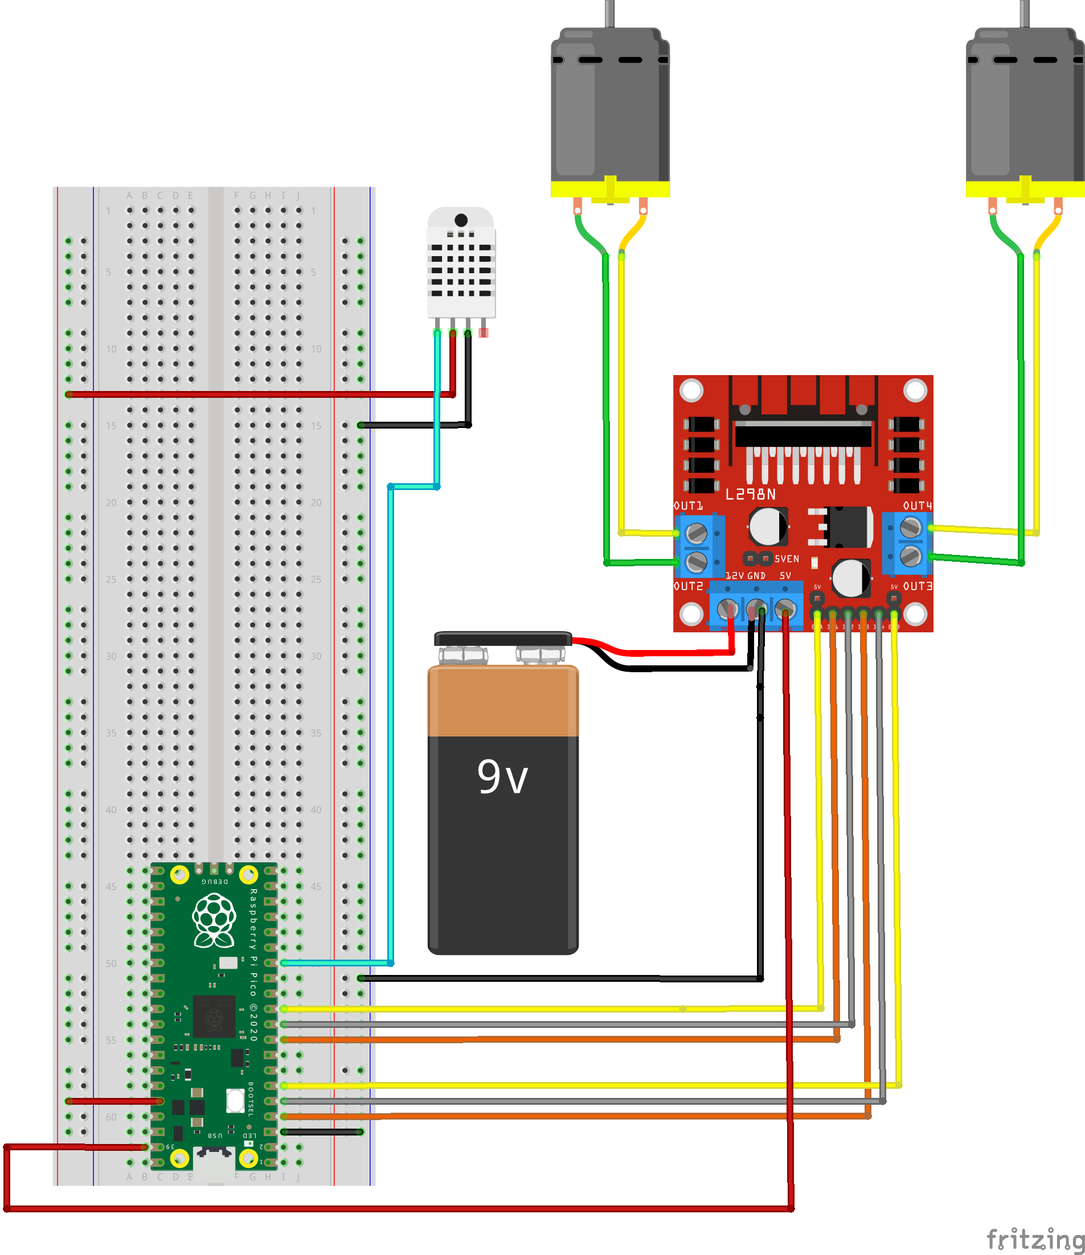
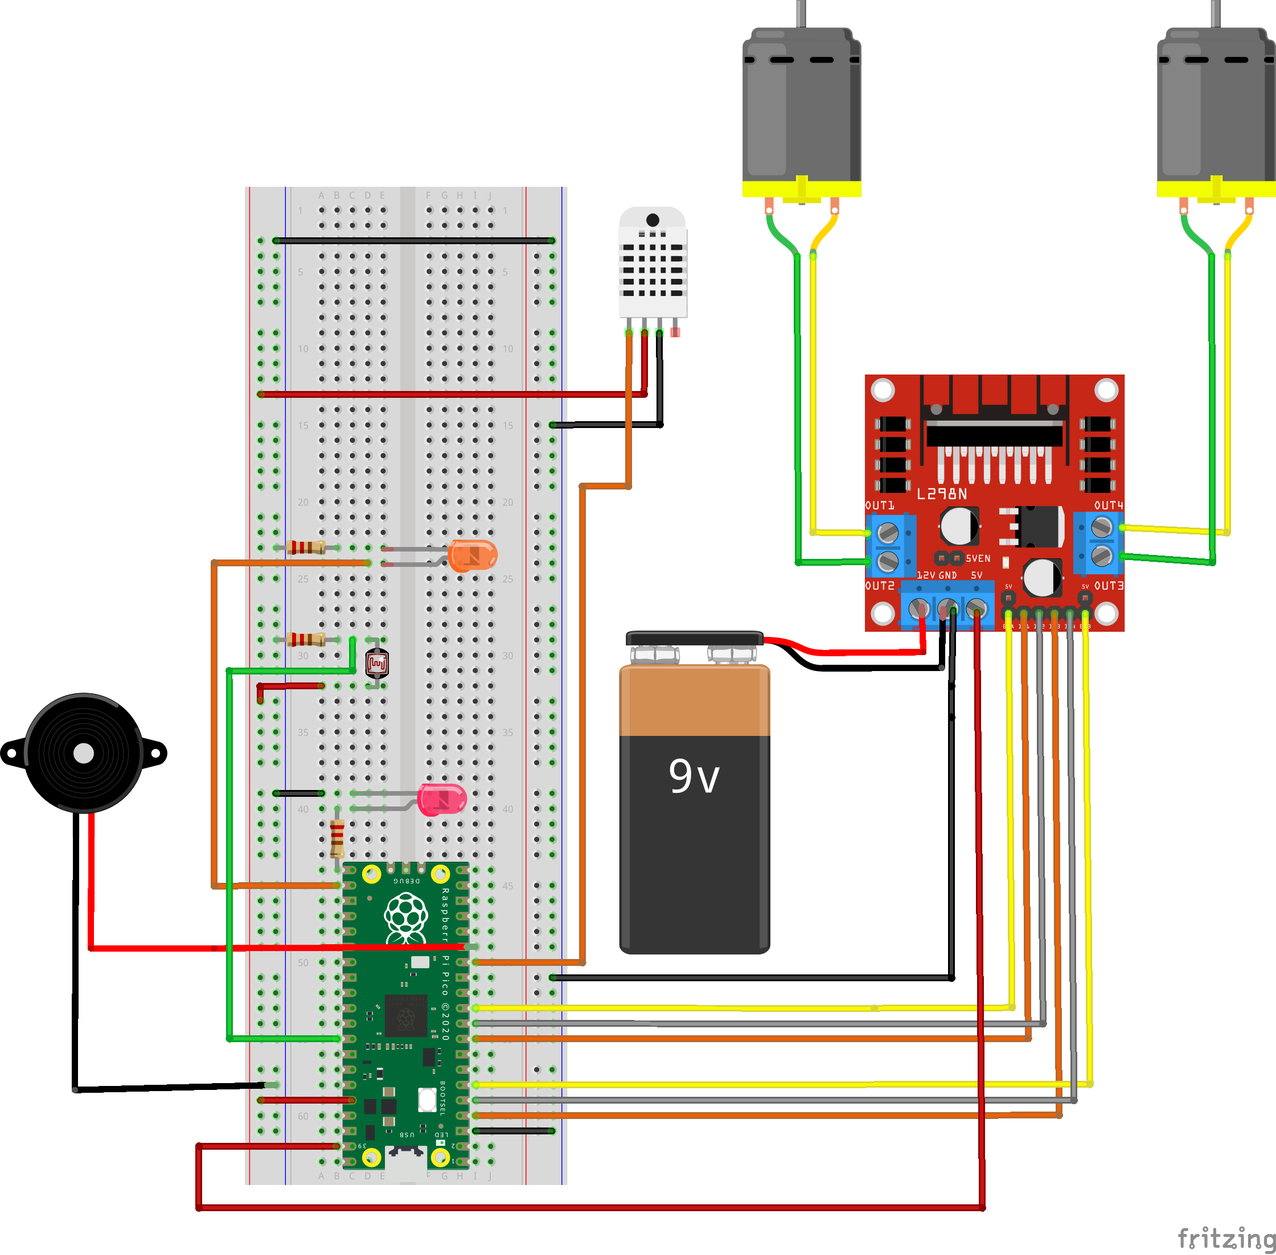
final version before presentation (#6)

diff --git a/README.md b/README.md
@@ -26,16 +26,21 @@ I went with the course recommendation to use a Raspberry Pi Pico W(H). It absolu
 | <img src="https://www.electrokit.com/upload/product/10160/10160840/10160840.jpg" alt="Image" width="300"/> | [Breadboard](https://www.electrokit.com/kopplingsdack-840-anslutningar) |For experimenting and testing. Also perfect if you dont want to solder.|69 SEK |
 | <img src="https://www.electrokit.com/upload/product/41000/41000885/41000885.jpg" alt="Image" width="300"/> | [9V-battery holder](https://www.electrokit.com/batterihallare-9v) |You get a 2-slot AA battery holder with the kit. But i prefered to used the 9V battery, because its not as easy to find high volt AA batteries.|10 SEK |
 | <img src="https://www.electrokit.com/cache/89/700x700-quick_ab_5b_0228_42338.png" alt="Image" width="300"/> | [9V-battery](https://www.electrokit.com/batteri-9v-6f22) | Enough to power both the MCU (pico) and the motors via the motor driver.|16 SEK |
+| <img src="https://www.electrokit.com/upload/product/40307/40307020/40300051.jpg" alt="Image" width="300"/> | [Led](https://www.electrokit.com/led-5mm-rod-diffus-1500mcd) | Need 2 or more|5 SEK |
+| <img src="https://www.electrokit.com/upload/product/40850/40850001/40850001.jpg" alt="Image" width="300"/> | [Photo resistor](https://www.electrokit.com/fotomotstand-cds-4-7-kohm) | Need 1 or more|8 SEK |
+| <img src="https://www.electrokit.com/upload/product/40810/40810410/40810410.png" alt="Image" width="300"/> | [10kohm resistor](https://www.electrokit.com/motstand-kolfilm-0.25w-10kohm-10k) | Need 1 or more|1 SEK |
+| <img src="https://www.electrokit.com/cache/45/700x700-product_40810_40810233_40810233.png" alt="Image" width="300"/> | [330ohm resistor](https://www.electrokit.com/motstand-kolfilm-0.25w-330ohm-330r) | Need 2 or more|1 SEK |
 | __Below__ | __is__ | __optional__ | - |
-| <img src="https://www.electrokit.com/upload/product/41000/41000465/41000465.jpg" alt="Image" width="300"/>| [Soldering kit](https://www.electrokit.com/lodset-starter-kit)| If you want to solder. | 219 SEK |
+| <img src="https://www.electrokit.com/upload/product/41000/41000465/41000465.jpg" alt="Image" width="300"/>| [Soldering kit](https://www.electrokit.com/lodset-starter-kit)| If you want to solder. (Get something better than this one though)| 219 SEK |
+| <img src="https://www.electrokit.com/cache/6f/700x700-product_41014_41014000_41014000.jpg" alt="Image" width="300"/>| [Wire](https://www.electrokit.com/kopplingstrad-0.28mm2-entradig-rod-/m)| If you want to solder. | 15 SEK |
 | <img src="https://www.electrokit.com/cache/0d/700x700-product_41014_41014098_41014098.jpg" alt="Image" width="300"/>| [m2.5 standoff screws](https://www.electrokit.com/distansskruv-m2.5-5mm), [m2.5 screws](https://www.electrokit.com/skruv-ph-m2.5x6) and [m2.5 nut](https://www.electrokit.com/mutter-m2.5)| For fastening your MCU and motordriver (and some sensors). For mcu and driver you will need 8 of each. | 1-5 SEK per piece |
 
 ## Setup
 ### Computer setup
-How is the device programmed. Which IDE are you using. Describe all steps from flashing the firmware, installing plugins in your favorite editor. How flashing is done on MicroPython. The aim is that a beginner should be able to understand.
+
 First we should to download and install [Python3](https://www.python.orgdownloads/), and to use Pymakr (explained below), we also need to install [NodeJS](https://nodejs.org/en/).
 
-I decided to use [VScode (download it here: Visual studio code)](https://code.visualstudio.com/) as my IDE (Integrated Devlopment Environment). I have used for for about 3 years and it's often a good choice, in my opinion. Follow the prompts (optional but suggested, add VScode to Path if asked) 
+I decided to use [VScode (Visual studio code)](https://code.visualstudio.com/) as my IDE (Integrated Devlopment Environment). I have used for for about 3 years and it's often a good choice, in my opinion. Follow the prompts (optional but suggested, add VScode to Path if asked) 
 To be able to use VScode with our MCU (Pico), we need to install some extensions. There are a few available extensions for working with Pico and micropython, but let's go with __Pymakr__. After installing VScode go to the extension tab and seach for Pymakr (see picture): 
 ![Pymaker install](./.images/pymakr.png "Title")
 
@@ -55,25 +60,27 @@ Before we can start writing code and flash it to our MCU, we need to [download](
 <img src="https://b1870411.smushcdn.com/1870411/wp-content/uploads/2021/04/pico-bootsel.jpg?lossy=2&strip=1&webp=1"  alt="Image" width="400"/>
 This causes the Pico to appear as a mass storage device (like any USB-storage device or other external hard drive) and can often be found under "This PC" on Windows. Simply drag and drop the downloaded firmware file (its probably a .uf2 file). Now the Pico is ready to handle python code. Simply unplugg and plugg your device again. Now is a good time to follow the previosly mentioned [Pymakr get started guide](https://github.com/sg-wireless/pymakr-vsc/blob/HEAD/GET_STARTED.md). As you can see in the guide there is an easy to use dev-mode coming with the extension, it takes care of uploading and restarting your micropython code whenever you make changes to the code. The dev-mode works fine, most of the time, but i can sometimes be a bit finicky and you have to help the program by pressing the "Sync project to device"-button below (see Pymakr guide).
 
-How is all the electronics connected? Describe all the wiring, good if you can show a circuit diagram. Be specific on how to connect everything, and what to think of in terms of resistors, current and voltage. Is this only for a development setup or could it be used in production?
-Circuit diagram (can be hand drawn)
-*Electrical calculations
-Platform
-Describe your choice of platform. If you have tried different platforms it can be good to provide a comparison.
-### Wiring and components
+### Putting it together
 In short, the 9V battery powers the L298N motor driver card. The driver card is equiped with a 5V volt regulator (marked as 5VEN on the image below) and as long as the jumper plug (small connector that connects the 2 pins) is connected, the L298N outputs 5V (To the right of the 12v and GND) which we can use to power our Pico board via the VSYS pin(39), which works fine because the VSYS expects between 1.8 to 5.5V. The <span style="background-color:red;">RED</span>  wires are generally representing the power source connections. It's important to note that the <span style="background-color:black; color:white;"> BLACK</span> wires is all connected to a common ground (the squared pins on the pico are all GND/Ground). The <span style="background-color:yellow;">YELLOW</span> wires connected between the Pico (green board) and the L298N (red board) are both connected to pins named ENA (left one is for left motor) and ENB (for right motor) and these pin controll the speed of their respective motor, if these pins are not used, the motors will always go at full speed These pins are controlled with PWM (converts a digital signal into an analog signal by varying the duty cycle of a square wave pulse).
 The <span style="background-color:orange;">ORANGE</span> and <span style="background-color:grey;">GREY</span> wires are connected to pins named IN1/IN2 (left motor) and IN3/IN4 (right motor). These pins simply control the direction of the motors by getting input from the Pico.
 
 The <span style="background-color:yellow;">YELLOW</span> and <span style="background-color:green;">GREEN</span> wires between the 6V DC motors are the power supply to the motor. These are controlled via the previously name INx/INy pins. Depending on which wires gets powered the motors spin in different directions.
 
-The <span style="background-color:cyan;">CYAN</span> wire is for a humidity sensor that is added temporarily because I needed some data to display. My goal is to replace this with a sensor for measuring the speed of the car (using the encoder discs that come with the wheels).
+The <span style="background-color:cyan;">CYAN</span> wire is for a temperature and humidity sensor added to track the temperature of the car chassis. My goal was to build this project inside a junction box and to use the temperature sensor to notify the driver if the box gets hot.
+
+The led lights on the diagram is optional and doesn't really affect the vehicle. The Orange one turns on if it's dark, you can see it as a cars headlights. The red one is like a glowing when you reverse the car.
+The black circle to the right is piezo-speaker (buzzer) it's supposed to represent the cars horn. These utilities
 ![Circuit diagram](.images/rccar_bb.png)
 
-Is your platform based on a local installation or a cloud? Do you plan to use a paid subscription or a free? Describe the different alternatives on going forward if you want to scale your idea.
+## Electrical Safety Tips
+There are some few key notes we need to be aware of as to not damage our hardware. First, follow the diagram, the leds need a 330ohm resistor, else they might get hot and fail. The most important note, is to pay attention to where you connect the battery. If you provide the L298N (red card) with a 9V battery AND have the jumper (small black connector) connecting the two pins (marked with 5VEN) for the 5V regulator in place. The L298N will output 5V that you can use to supply power your Pico via VSYS, which (see diagram). Be very mindfull not to accidently provide your Pico with directly from the 9V battery, I made that misstake and it fried my Pico. The Pico have its own 3.3v regulator that allows the Pico to supply 3.3v to the rest of the board and its GPIO. However it needs to be provided with __1.8V to 5.5V__ for it to work.
+The motors are capable of handling up to 6V each so we will not be able 2 use their full potential with a 9V battery, but it is good enough. If you have a batterypack of 12V you can use that instead. Just be sure to not go over the 12V specified on the L298N for this project. 
+The design of the L298N cause some voltage drop that we can't do anything about. 
+
 
 ## Connectivity setup
 __Remember to use / or \ for paths, depending on your OS.__
-### Connect to Wifi 
+#### Connect to Wifi 
 1. Create server\src\keys.py
 1. Add the variables: 
     * WIFI_SSID = < REPLACE EVERYTHING AFTER '=' WITH YOUR "WIFI NAME" >
@@ -90,27 +97,39 @@ __Note that my IP is in the format of "XXX.XXX.X.XX" (your might differ a bit) f
     * CONNECT_TO_IP = <"Your Pico server IP">
     * CONNECT_TO_PORT = <"Prefered port (the preset one used is 3000)">
 
+### Platform for visualizing data
+
+I decided to use Adafruit for it's simplicity. I initially considered using Node-RED, but due to current time constraints and the need to prioritize setting up the car's functionality, I opted for Adafruit to better manage my time (an area I am actively working to improve). My project haven't been so heavily focused on data collection which contributed to the decision to go for a simpler service for thihs purpose, I did install a temperature sensor to monitor the enclosure/chassi where the pico and the other components are mounted to make sure it doesnt get to heated. 
+I also installed an optical encoder that could read encoder discs on the wheels in order to calculate the speed of the vehicle (see image below), wtih the purpose of sending the speed data to my Adafruit dashboard. I got it working and had the math figured out. However the sensor and the discs werent really as compatible as I had hoped. So their ability to give reliable speed data wasn't good, thus i decided to scrap that feature, the downside is that I dont have as much data to show on my dashboard.
 
 
-Describe platform in terms of functionality
-*Explain and elaborate what made you choose this platform
+![Encode disc](.images/encoder-disc.png)
 
-## Data visulization
-I decided to use Adafruit for it's simplicity. I wanted to use Node-red but I have very limited time at the moment so I went with Adafruit. My project haven't been so heavily focused on data collection, I did install a temperature sensor to actually have some real data to send to Adafruit. My goal, if I have time, is to install a sensor for measuring the speed of the car. If I can't, I will simply add some more general sensor to have some data to display.
+Another good aspect of Adafruit is that their API is super easy to use and with a simple fetch I can display the same data ive uploaded on my own webapp/client.
 
-The code
-Import core functions of your code here, and don't forget to explain what you have done! Do not put too much code here, focus on the core functionalities. Have you done a specific function that does a calculation, or are you using clever function for sending data on two networks? Or, are you checking if the value is reasonable etc. Explain what you have done, including the setup of the network, wireless, libraries and all that is needed to understand.
+If you want to display your readings on Adafruit you to need to create an Adafruit account and set up the feeds. Next step if you want your readings mean value to be displayed in the webapp (controller) you need to paste your Adafruit key in functions.js
 
-![Data vis Adafruit](.images/data-vis.png)
+Like:
+
+    async function fetchData() {
+    const url = `https://io.adafruit.com/api/v2/emklemkl/feeds/temperature/data?limit=10`;
+    const response = await fetch(url, {
+        headers: {
+            'X-AIO-Key': "xxx_xxxxxxxxxxxxxx"
+        }
+    });
 
 ## Code
-The main stars in my project is probably the motors. I decided to create a Motor class to easily control each individual motor. This makes it a  walk in the park to create the main controls for the the Client that is controlling the car.
+The main stars in my project is probably the motors. I decided to create a Motor class to easily control each individual motor. This makes it a  walk in the park to create the main controls for the the Client that is controlling the car. 
 
 ## Server/Backend
-The car is running it's own server with WebSocket protocol. As soon as it detects signals from the client it is ready to let the client control the car.
+The car is running it's own server with WebSocket protocol. As soon as it detects signals from the client it is ready to let the client control the car via the web app controller (phone/pc). It was a bit more challenging than expected to the get the connection between the client and backend without disturbances. I ended up writing some async code in order to not block any instructions coming from the client.
+
 ![Rc car](.images/car.jpg)
 
 ### motor.py
+This class hold all the functions needed to control the speed or direction of the motors. 
+
     class Motor():
         MAX_DUTY_CYCLE = 65535
         def __init__(self, pin_x : Pin, pin_y : Pin, pin_pwm : Pin) -> None:
@@ -132,26 +151,40 @@ The car is running it's own server with WebSocket protocol. As soon as it detect
         def ....
 
 ### main.py
-The main file contains a bit more code than necessary at the moment, but its main feature is the while loop that keeps the WebSocket server alive. Each loop checks if new instructions have been sent from the client, if a new instruction is detected the car will act upon it instantly.
+The main file contains a while loop. Each loop checks if new instructions have been sent from the client(phone/pc) to the server(Pico/MCU), if a new instruction is detected the car will act upon it next iteration. Because of the sleep-functions you can send up to 10 commands every second, and use of asynchronous programming allows you to provide other instructions without blocking the driving functionality. For example, you can spam the "honk" button without losing the ability to steer the car.
+
+The main loop is a function that is called from a try except block after the server object have been initialized.
+
+    async def main_loop():
+        ts = time.time()
+        while True:
+            if ts + NIGHT_LIGHT_CHECK_TIME < time.time():
+                night_light.led_control()
+                ts = time.time()
+            temp = temp_hum.measure_temp()
+            client.check_msg()
+            if temp:
+                send_temp(temp)  # Send a current temp to Adafruit IO if it's time.
+            server.process_all()
+            await asyncio.sleep(0.1)
 
     try:
         server = AppServer()
         server.start(3000)
-        temp_hum = TemperatureHumidity(Pin(10))
-        while True:
-            temp = temp_hum.measure_temp()
-            client.check_msg()# Action a message if one is received. Non-blocking.
-            if temp:
-                send_temp(temp)     # Send a random number to Adafruit IO if it's time.
-            server.process_all()
-            time.sleep(0.3)
+        temp_hum = SensorDHT11(Pin(10))
+        night_light = NightLight(ADC(27), Pin(17, Pin.OUT), 59000)
+        asyncio.run(main_loop())
     except KeyboardInterrupt:
         pass
+    server.stop()
 
 ## Client/Frontend
 
-The client runs a WebSocket protocol to have full duplex communication between the server and client. The client consists of functions.js and index.html which in combination is used to control the car. At the moment the controls for the car have a very basic setup.
-![Controller for ar](.images/car-controll.png)
+The client runs a WebSocket protocol to have full duplex communication between the server and client. The client consists of functions.js and index.html which in combination is used to control the car. I decided to create a radio button inspired controller, the main reason is that it was faster than creating a virtual joystick, the second reason is that it is more fun to drive it like this as it is more challenging. The controller also have a horn that you can sound with the "honk" button (on the cat its just a simple piezo buzzer that i found in the sensor pack). You can increase and decrease the speed of the car with the slider without blocking any functionality. Below you can see the car temperature values. My plan is you solder together all parts and put them inside a simple chassi (like a small junction box), and when all the parts are enclosed I want instand feedback of the temperature inside the chassi. The temperature data is fetched from the Adafruit API and then i display the mean value of the last X datapoints sent to my Adafruit feed.
+
+__To start the client__ open a terminal (Win + R, write "cmd" then press enter) navigate to the folder \client using "cd some\folder\iot-project\client. Then run the command: python3 -m http.server 9000. You can now find the client/webapp in your browser by entering localhost:9000 in the search bar. When you enter the app the connection to the Pico/server should happen automagically (make sure the pico is powered).
+
+![Controller for car](.images/rc-controller.gif)
 ### functions.js
 This JavaScript code simply connects to the server that is running on the Pico (on the car) as soon as any device visits the clients ip.
 
@@ -182,27 +215,47 @@ This JavaScript code simply connects to the server that is running on the Pico (
         ws.send(value)
     }
 
-# Explain your code! 
+### index.html
 
-# To be continued...
+    <body>
+    <div id="car-controller">
+        <div class="flex-row-even">
+            <div class="flex-column">
+                <label for="forward-left">Forw/Left</label>
+                <input type="radio" id="forward-left" class="radio" name="radio-sel" value="fL">
+            </div>
+            <div class="flex-column">
+                <label for="forward">Forward</label>
+                <input type="radio" id="forward" class="radio"  name="radio-sel" value="f">
+            </div>
+        ....
+## Transmitting data
 
-Transmitting the data / connectivity
-How is the data transmitted to the internet or local server? Describe the package format. All the different steps that are needed in getting the data to your end-point. Explain both the code and choice of wireless protocols.
+#### Wifi
+As mentioned earlier the program is Wifi driven. The Pico board mounted on the car runs a server that receives instructions from the client using WebSocket protocol. Using Wifi in this case has it's pros and cons. For the steering of the car my life would probably have been easier if I used IR sensors or Bluetooth as to not having to deal with ip-addresses back and forth, but i learned a lot so it feels like a good choice for that purpose. I also noticed I have some "Wifi dead zones" in my house when I was testing out the car, which negatively impacts the experience. 
 
-How often is the data sent?
-Which wireless protocols did you use (WiFi, LoRa, etc …)?
-Which transport protocols were used (MQTT, webhook, etc …)
-*Elaborate on the design choices regarding data transmission and wireless protocols. That is how your choices affect the device range and battery consumption.
-Presenting the data
-Describe the presentation part. How is the dashboard built? How long is the data preserved in the database?
+#### Transport protocols
+The temperature data is sent to Adafruit once every few seconds using the MQTT protocol. I had not used MQTT before, so it was interesting to try it out. Even though I only did the basics, it was a good learning experience beyond the more common HTTP(S) protocol. 
+Because my device is battery powered (9V) the use of MQTT also felt like a good idea due to MQTT's ability to keep the overhead low. MQTT sends less non-essential data than for example HTTP whose headers are somewhat verbose, which contributes to decreasing battery consumption.
+I most likely could have used the WebSocket protocols full duplex ability to communicate my data. But one the reasons i didn't is, as i meantioned, that I wanted to try out MQTT. Since I mainly use the WebSocket protocol to communicate from the client to the server/car, one could argue that it would have been cheaper to use Server Sent events as the overhead is smaller. But that would have required a more complex client, I simply wanted the oportunity to try out WebSockets with my IoT project.
 
-Provide visual examples on how the dashboard looks. Pictures needed.
-How often is data saved in the database.
-*Explain your choice of database.
-*Automation/triggers of the data.
-Finalizing the design
-Show the final results of your project. Give your final thoughts on how you think the project went. What could have been done in an other way, or even better? Pictures are nice!
 
-Show final results of the project
-Pictures
-*Video presentation
+
+## Presenting the data
+The dashboard is really simple and doesnt really differ from the guide. I implemented a webhook (for a discord server that I always have active) to send a message if the temperature inside the chassi gets to high. Ideally I should make use of the websocket connection and instantly send a warning message to the webapp that controls the device. But this is more of an extra goal if I should find the time.
+
+I didn't manage to find an answer to how long the data is stored on Adafruit. But as my data isn't really analyze worthy during this stage I don't see it as a problem. The temperature data in its current stage is intended for fire hazard prevention, hence why I wanted to implement a warning in the app if the car gets hot.
+![Data vis Adafruit](.images/data-vis.png)
+
+## End result
+
+The project was challenging, there were many small details that required a lot of my attention in order for the car to actually be usable. I had some ups and downs, but the only real regret I have is the lack of time, as I'm working full-time alongside this course. I didn't have time to implement all of my ideas on this project. Some things had to be scrapped, such as the previously mention speed calculator, due to incompatible hardware. However, i feel that i got to try out all the elements I wanted. I wanted to create a code focused projects where I had to explore unknown territory, such as WebSockets with micropython, I even had to do some soldering due to the fact that i fried my first Pico WH and only had a Pico W (without headers) left. So I had to move the pins. I wish i had spent some more time dealing with different ways to visualize data. Adafruit was nice, but very simple and it took only 20 minutes to get it running. But because I started to work on the data visualization pretty late I simply had to select one and stick with it. I did try out Node-red, but as I am working on Windows I had some undesirable service issues that I didn't want to deal with at the time. 
+![Car pic](.images/rc-car1.jpg)
+Other things I could have done better is to make more commits when I'm coding. I often end up with massive commits and pull requests. Also I spent a lot of time thinking about what project to do and how to do it, instead of just starting with something spontaneus and see were i end up. I believe I would have benefited from spending more time just building simple LED circuits or similar small projects the first week or two.
+
+![Car pic](.images/rc-car2.jpg)
+
+In the end, I have had much fun and learned a lot! :)
+
+![Car pic](.images/rc-car3.jpg)
+![Car pic](.images/rc-car4.jpg)
